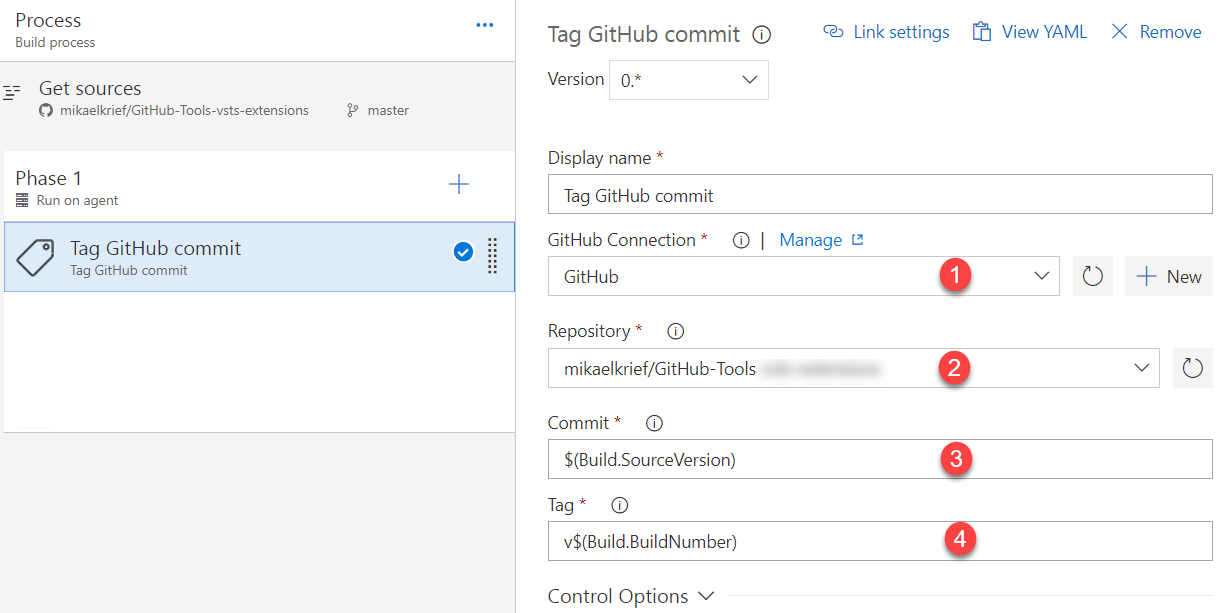
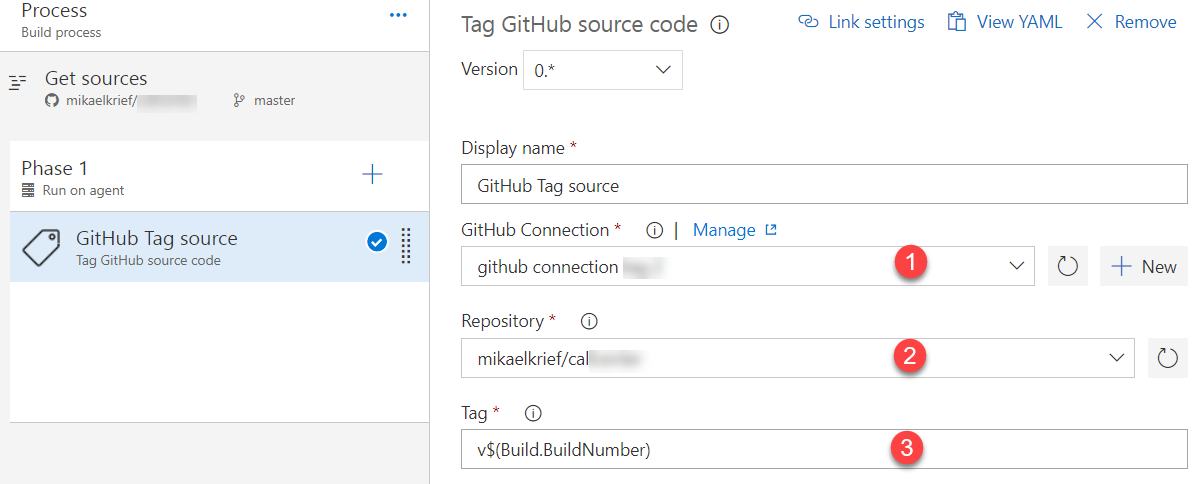
update screen

diff --git a/GitHubTasks/overview.md b/GitHubTasks/overview.md
@@ -1,10 +1,10 @@
-## GitHub tools for Build and Release ##
+## GitHub tools for VSTS Build and Release ##
 
-This VSTS extension provide Build/Release tasks for tag GitHub commit and Create GitHub release.
+This VSTS extension provide Build/Release tasks for tag GitHub source code and Create GitHub release.
 
-### Tag GitHub source code ###
+### GitHub Tag source code ###
 
-This task create a Tag on GitHub source code.
+This task create a GitHub Tag on your source code.
 
 ![githubtask](static/images/screen1.png)
 
@@ -16,7 +16,7 @@ Task parameters are:
 
 See the [Wiki page](https://github.com/mikaelkrief/GitHub-Tools-vsts-extensions/wiki/Tag-GitHub-source-code) for more documentation.
 
-### Create GitHub release ###
+### GitHub Create release ###
 
 This task create a GitHub release based on tag.
 
